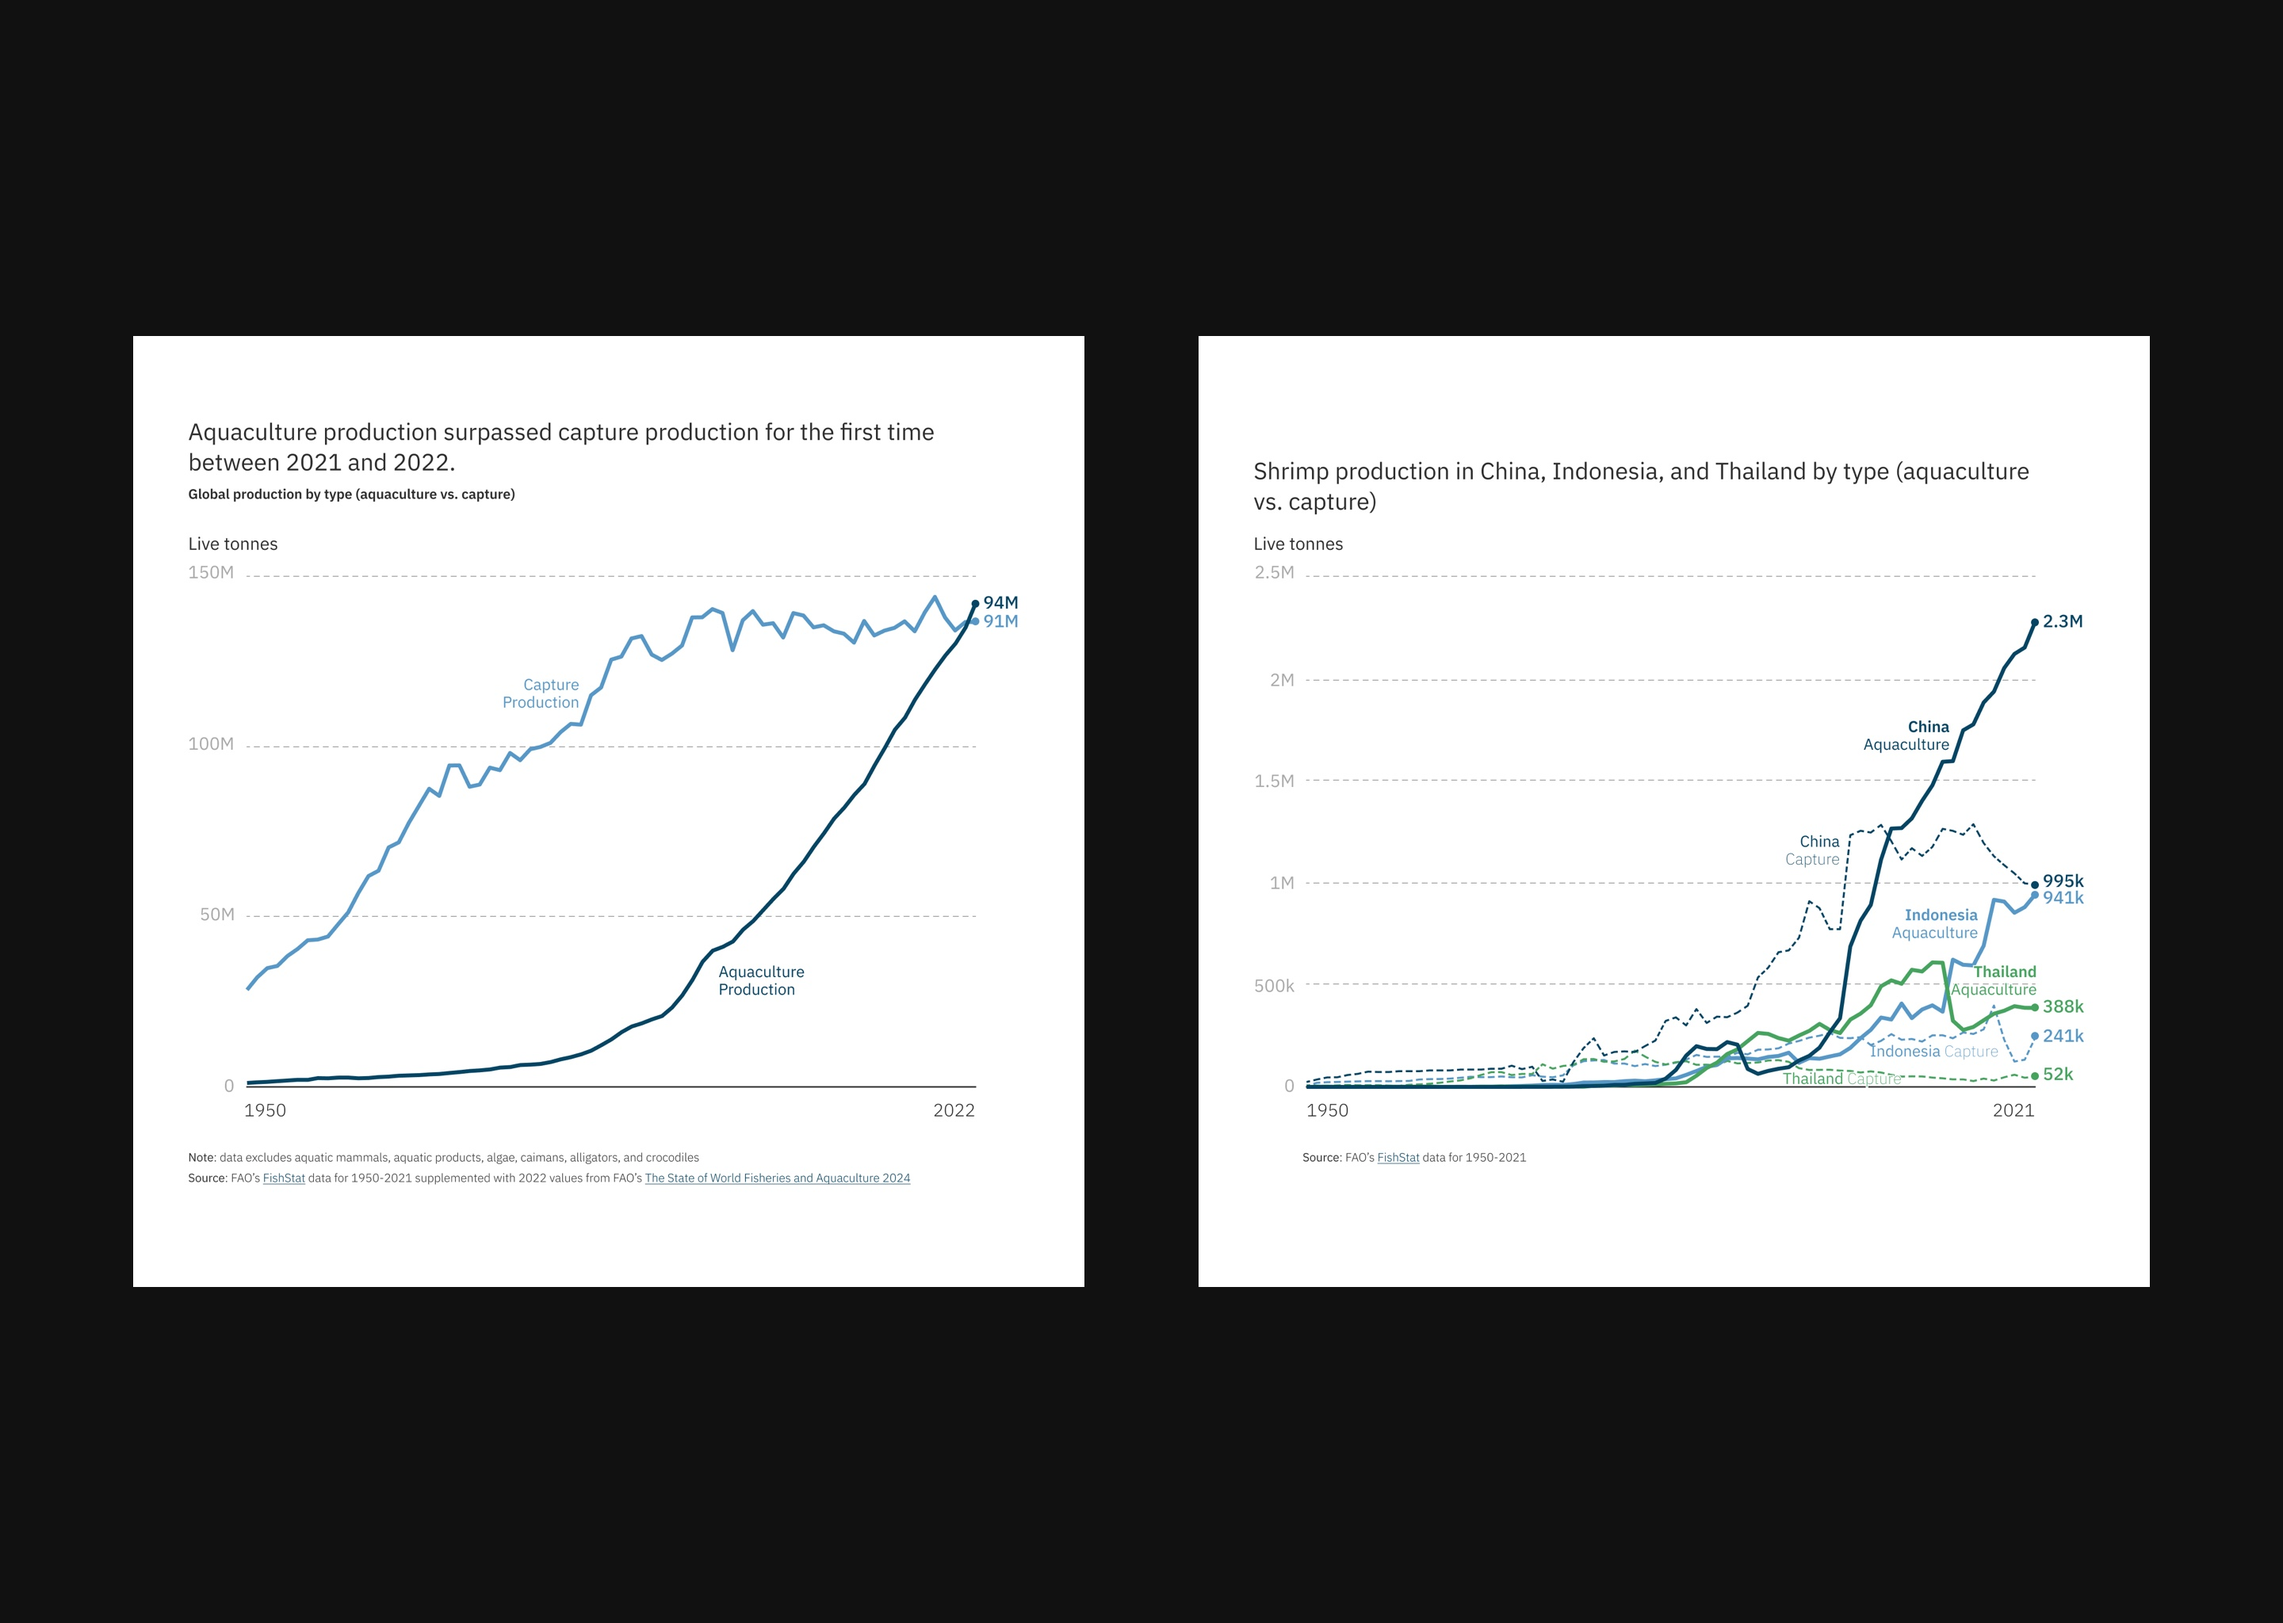
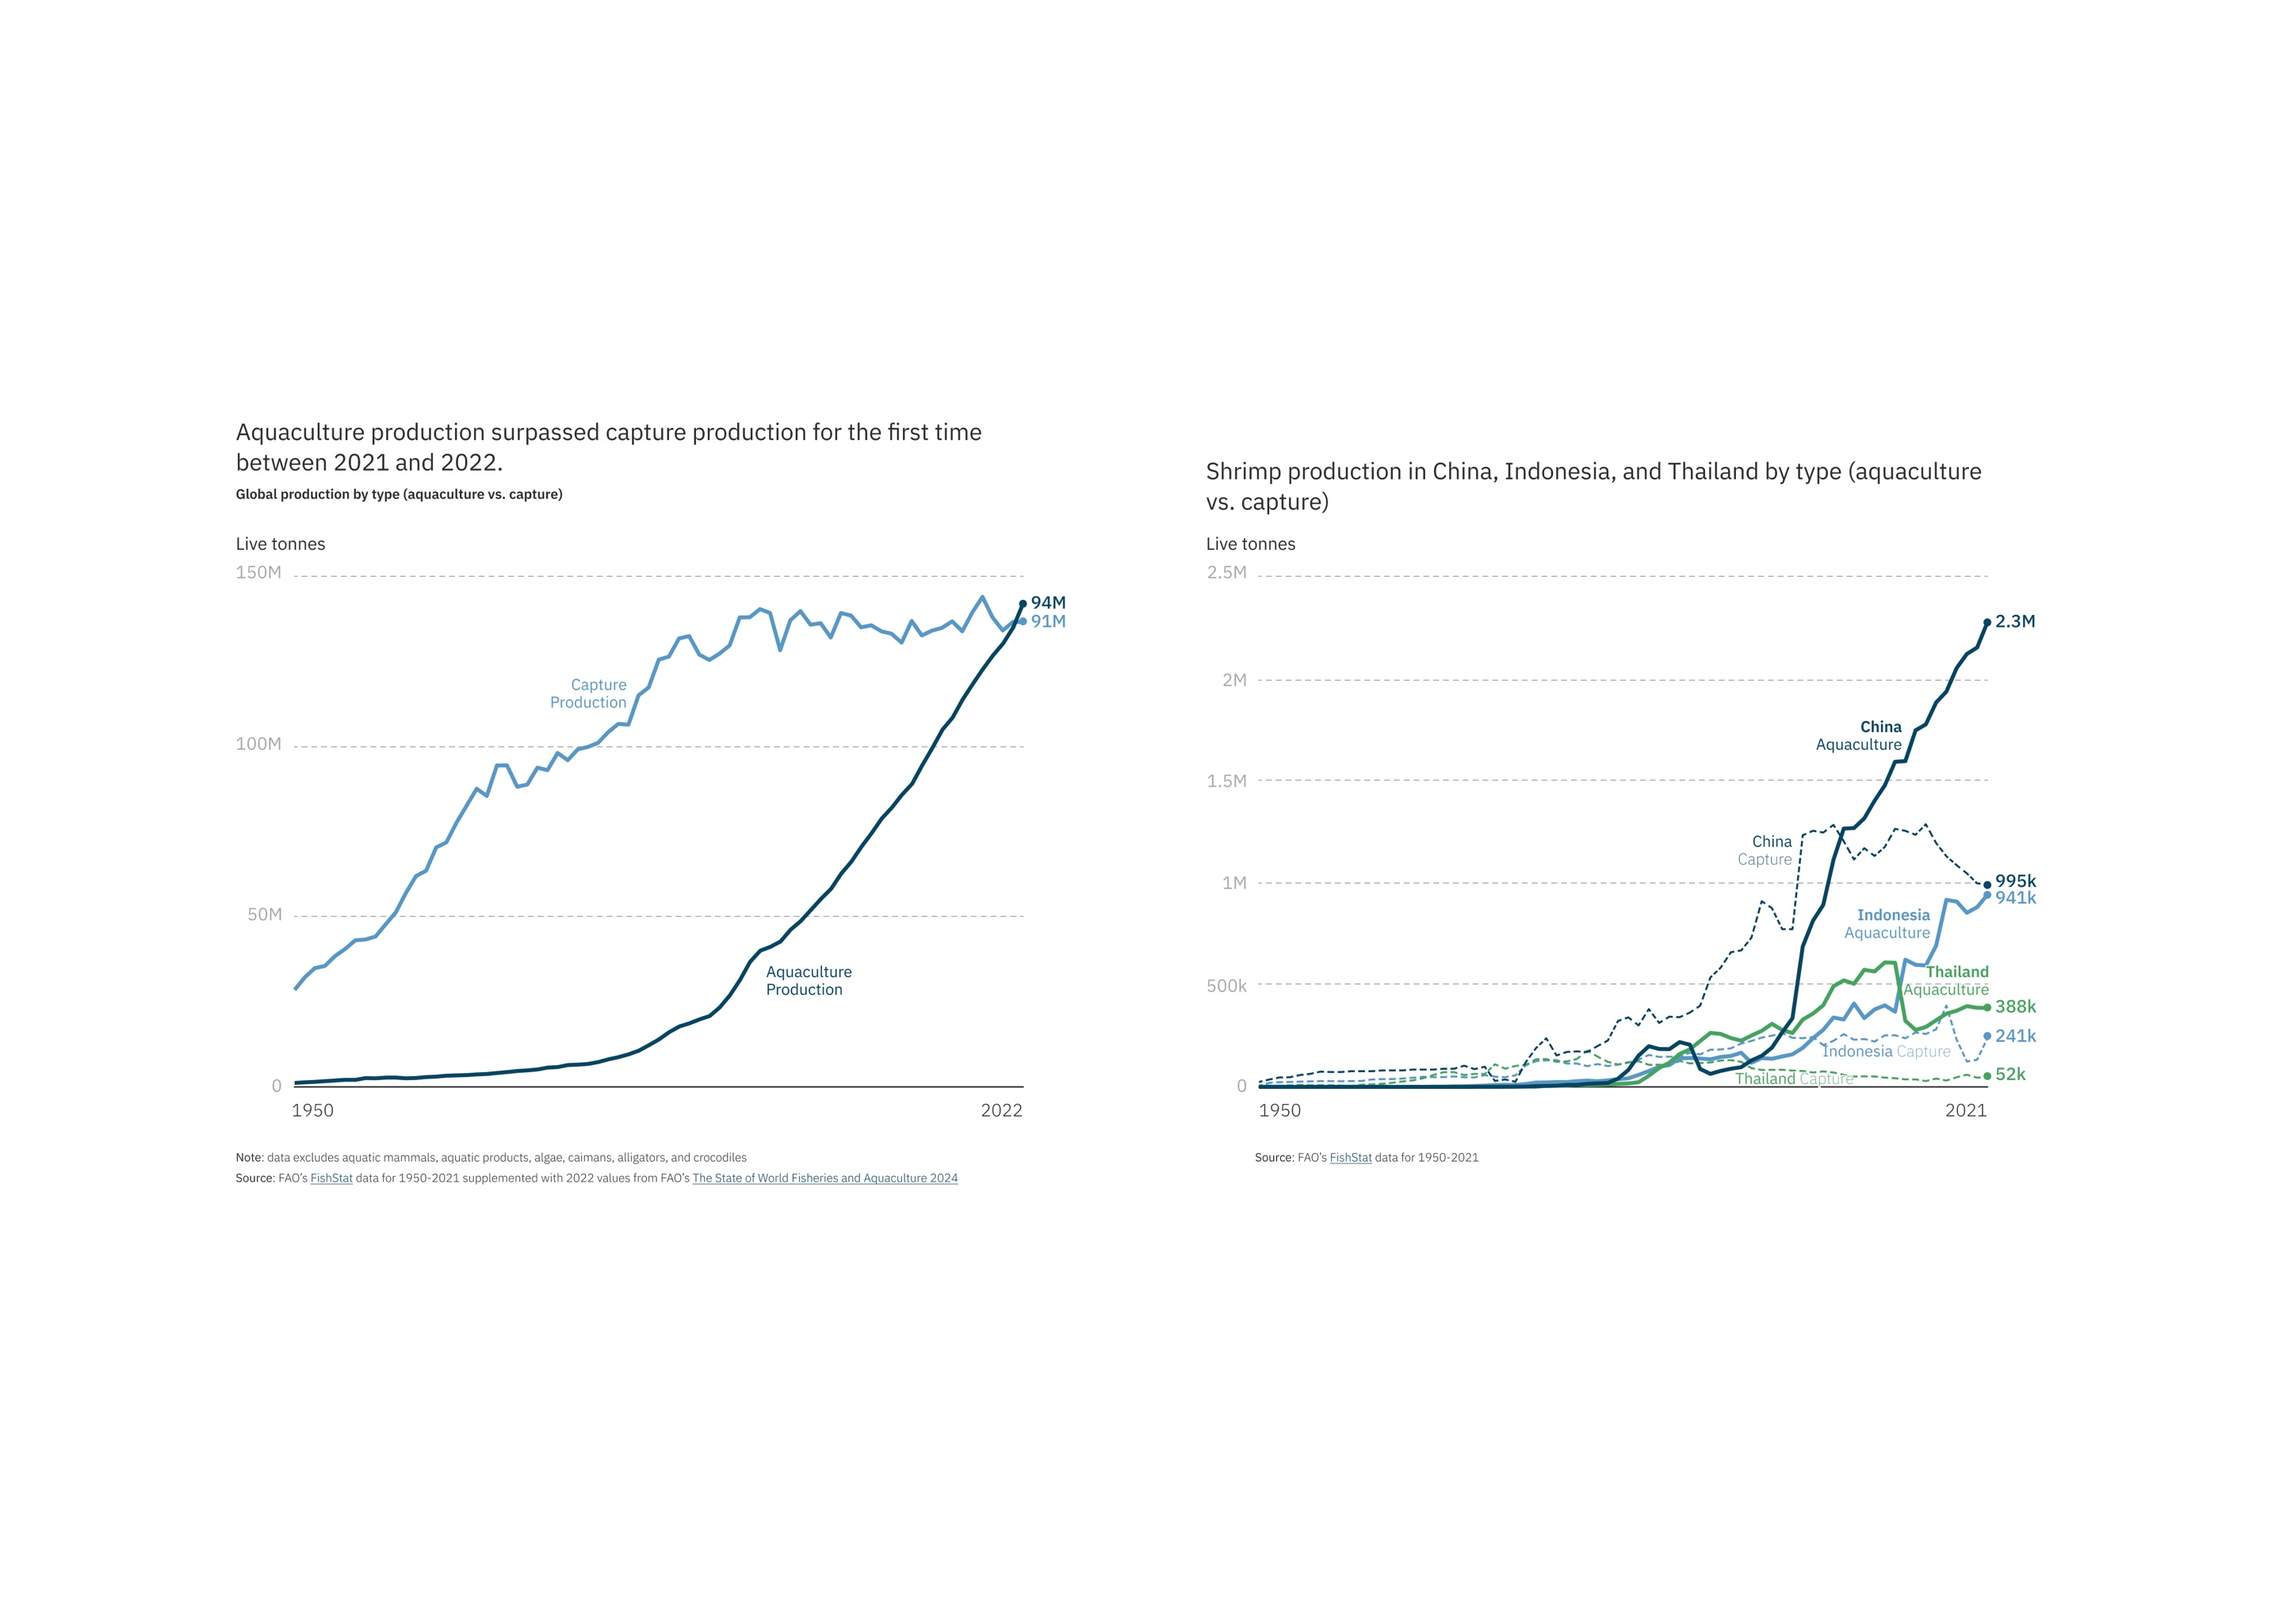
adds fisheries charts

diff --git a/vizzes.html b/vizzes.html
@@ -35,13 +35,13 @@
                         <img class="scrollimage" src="css/Population by State and Sentence dark mode.png" alt="a marimekko chart showing prison population by state and sentence length" onclick="window.open(this.src, '_blank');">
                         <p>A marimekko chart, started in D3 and refined by hand, showing prison population by state and sentence length, highlighting the "lifers" in each state</p>
 
-                        <!-- <img onclick="window.open(this.src, '_blank');" class="scrollimage" src="css/aquaculture trends.jpg" alt="Two line charts. One line chart shows global fish production patterns. The line representing aquaculture surpasses the line representing capture for the first time between 2021 and 2022. The other line chart shows shrimp production in 3 Asian countries. China's aquaculture is growing far more rapidly than any other type/country's production.">
-                        <p>Line charts showing how production of fish and shrimp has skyrocketed in recent years. Data cleaning done in Google Sheets and charts created and refined by hand in Figma.</p> -->
-
                         <!-- <img onclick="window.open(this.src, '_blank');" class="scrollimage" src="css/RIQ.png" alt=">Visualization using small multiples to explore differences in railroad infrastructure quality for different countries."> -->
                         <img onclick="window.open(this.src, '_blank');" class="scrollimage" src="css/RAINQU2.png" alt=">Visualization using a grouped of similarly laid out parallel line plots to explore differences in railroad infrastructure quality for different continents.">
                         <p>A visualization using parallel plot small multiples to explore differences in railroad infrastructure quality for different countries and another version focusing more on trends across continents instead of individual countries.</p>
 
+                        <img onclick="window.open(this.src, '_blank');" class="scrollimage" src="css/aquaculture trends.jpg" alt="Two line charts. One line chart shows global fish production patterns. The line representing aquaculture surpasses the line representing capture for the first time between 2021 and 2022. The other line chart shows shrimp production in 3 Asian countries. China's aquaculture is growing far more rapidly than any other type/country's production.">
+                        <p>Line charts showing how production of fish and shrimp has skyrocketed in recent years. Data cleaning done in Google Sheets and charts created and refined by hand in Figma.</p>
+                        
                         <!-- <img onclick="window.open(this.src, '_blank');" class="scrollimage" src="css/HDI.png" alt="Visualization using nested circles to represent life expectancy and HDI for different countries.">
                         <img onclick="window.open(this.src, '_blank');" class="scrollimage" src="css/HDI2.png" alt="Visualization using nested circles to represent life expectancy and HDI for different countries.">
                         <p>An artistic visualization using nested circles to represent life expectancy and the UN's Human Development Index for different countries.</p> -->
